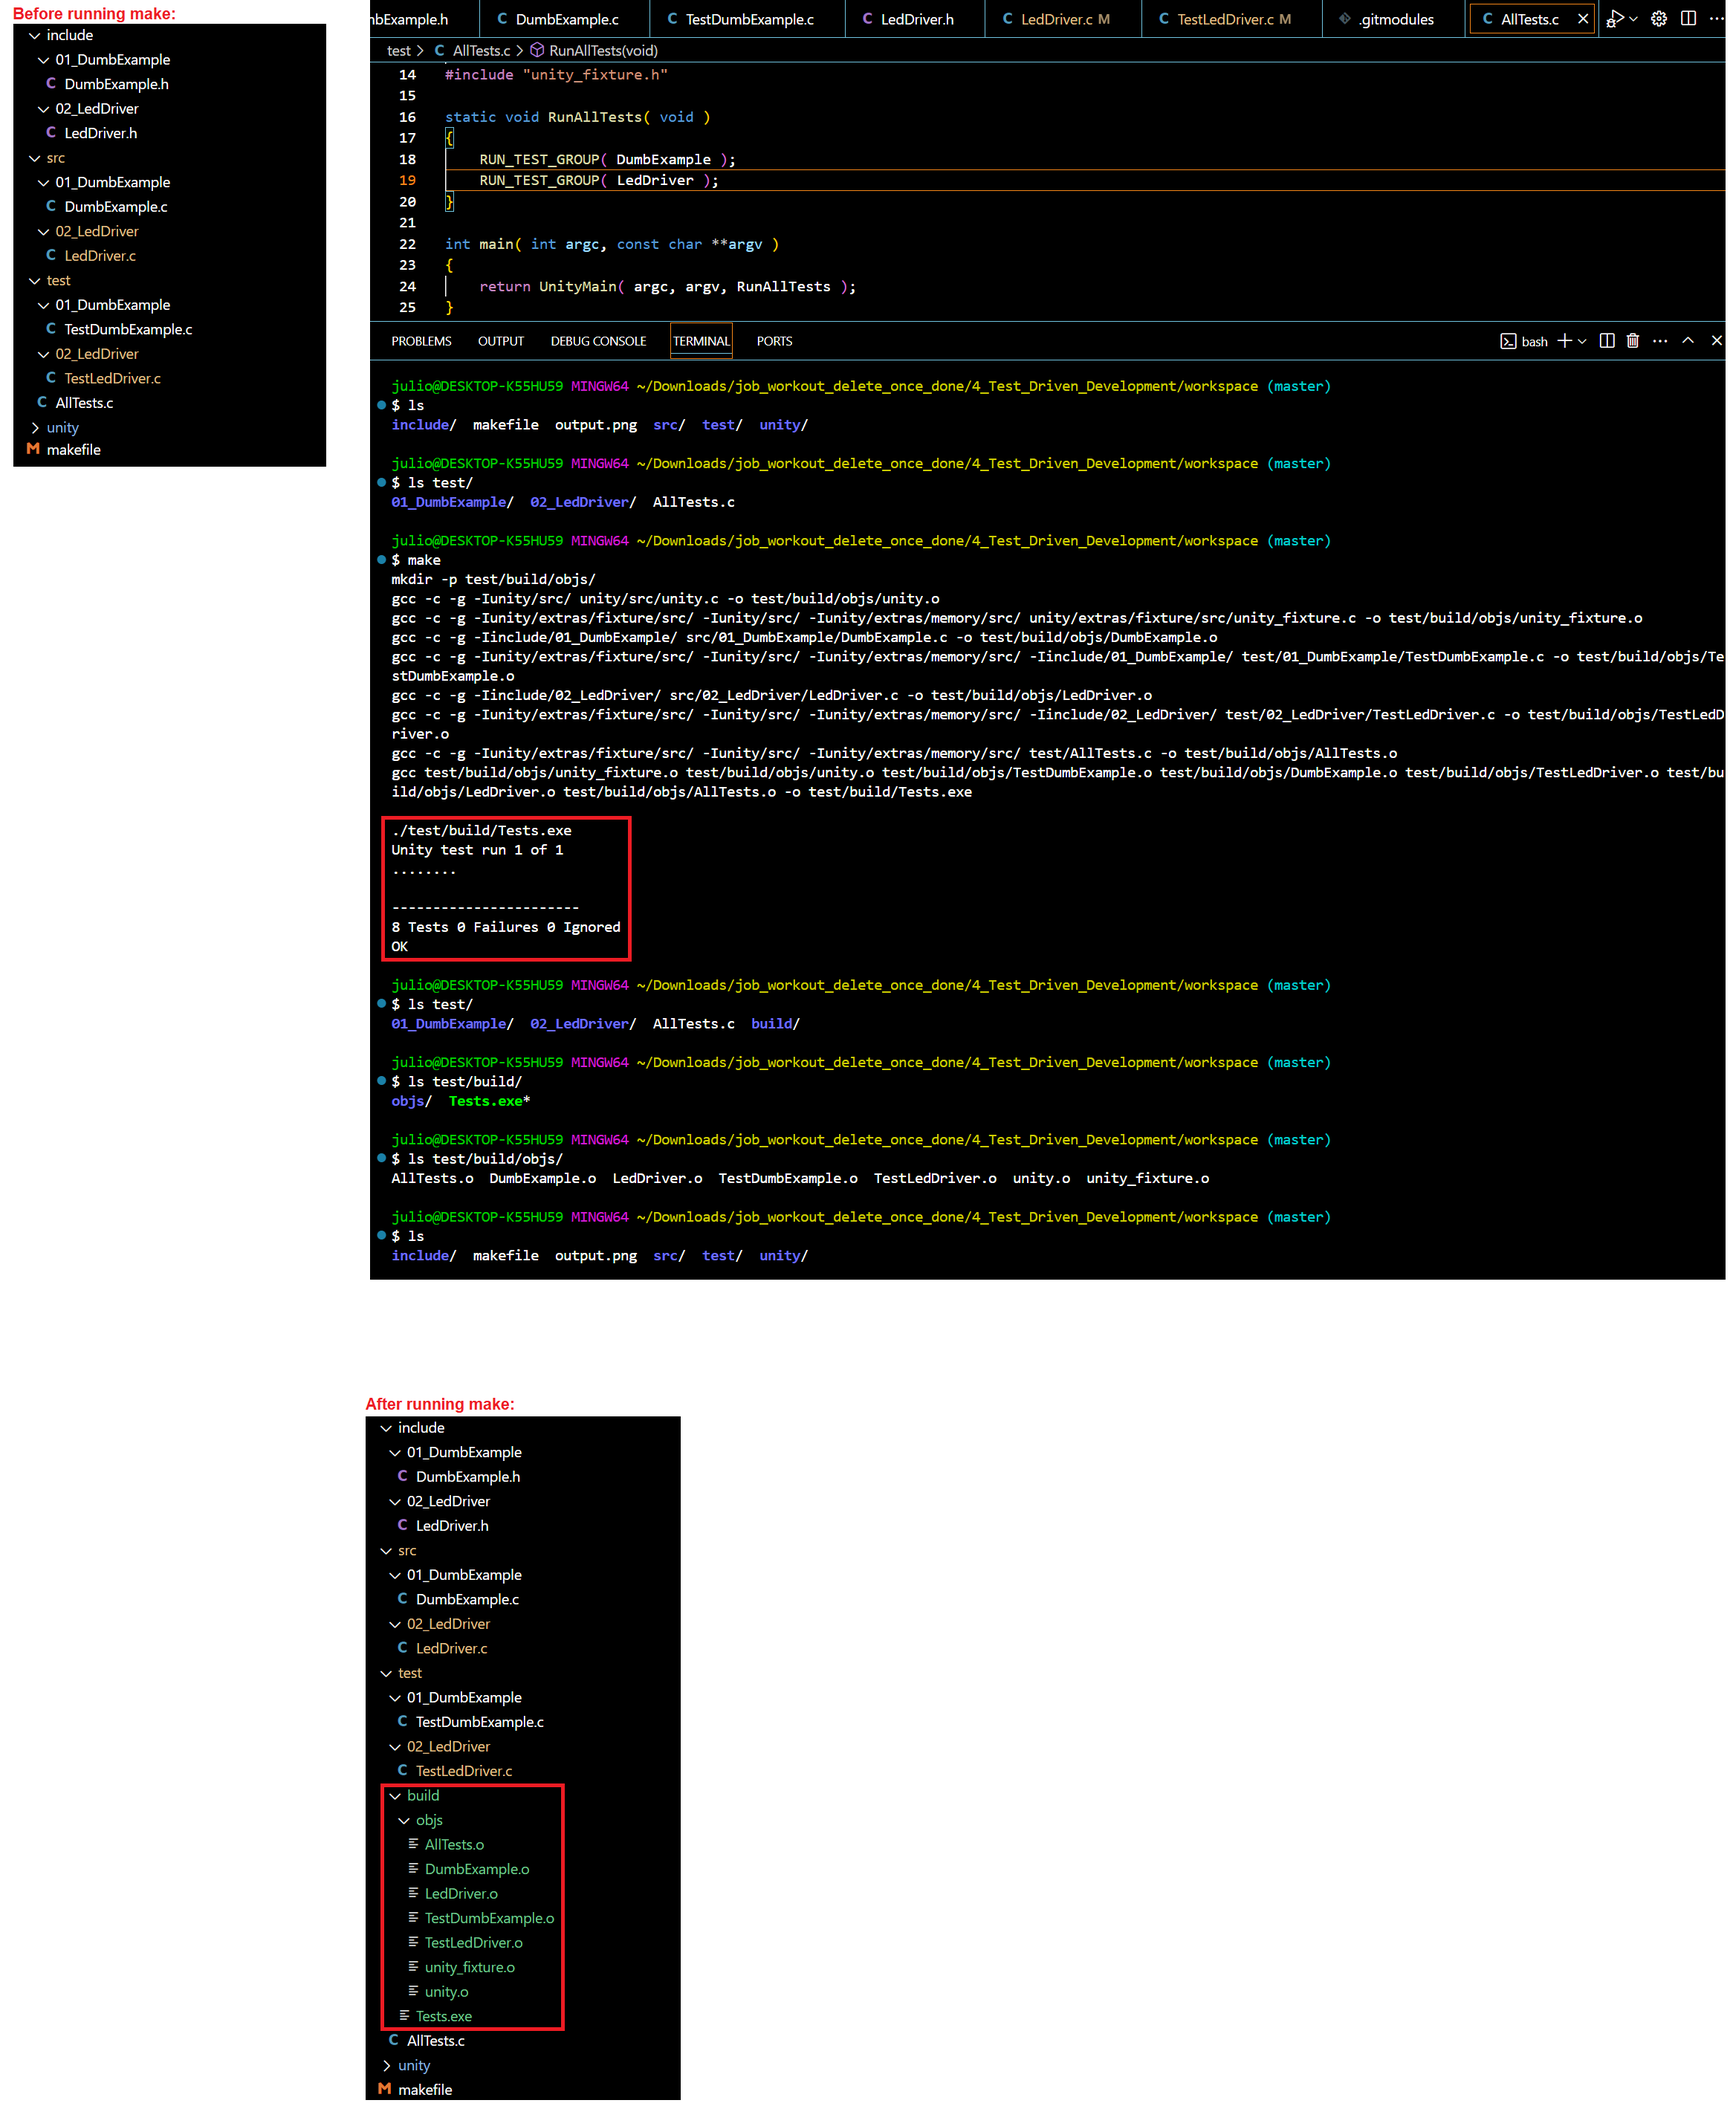
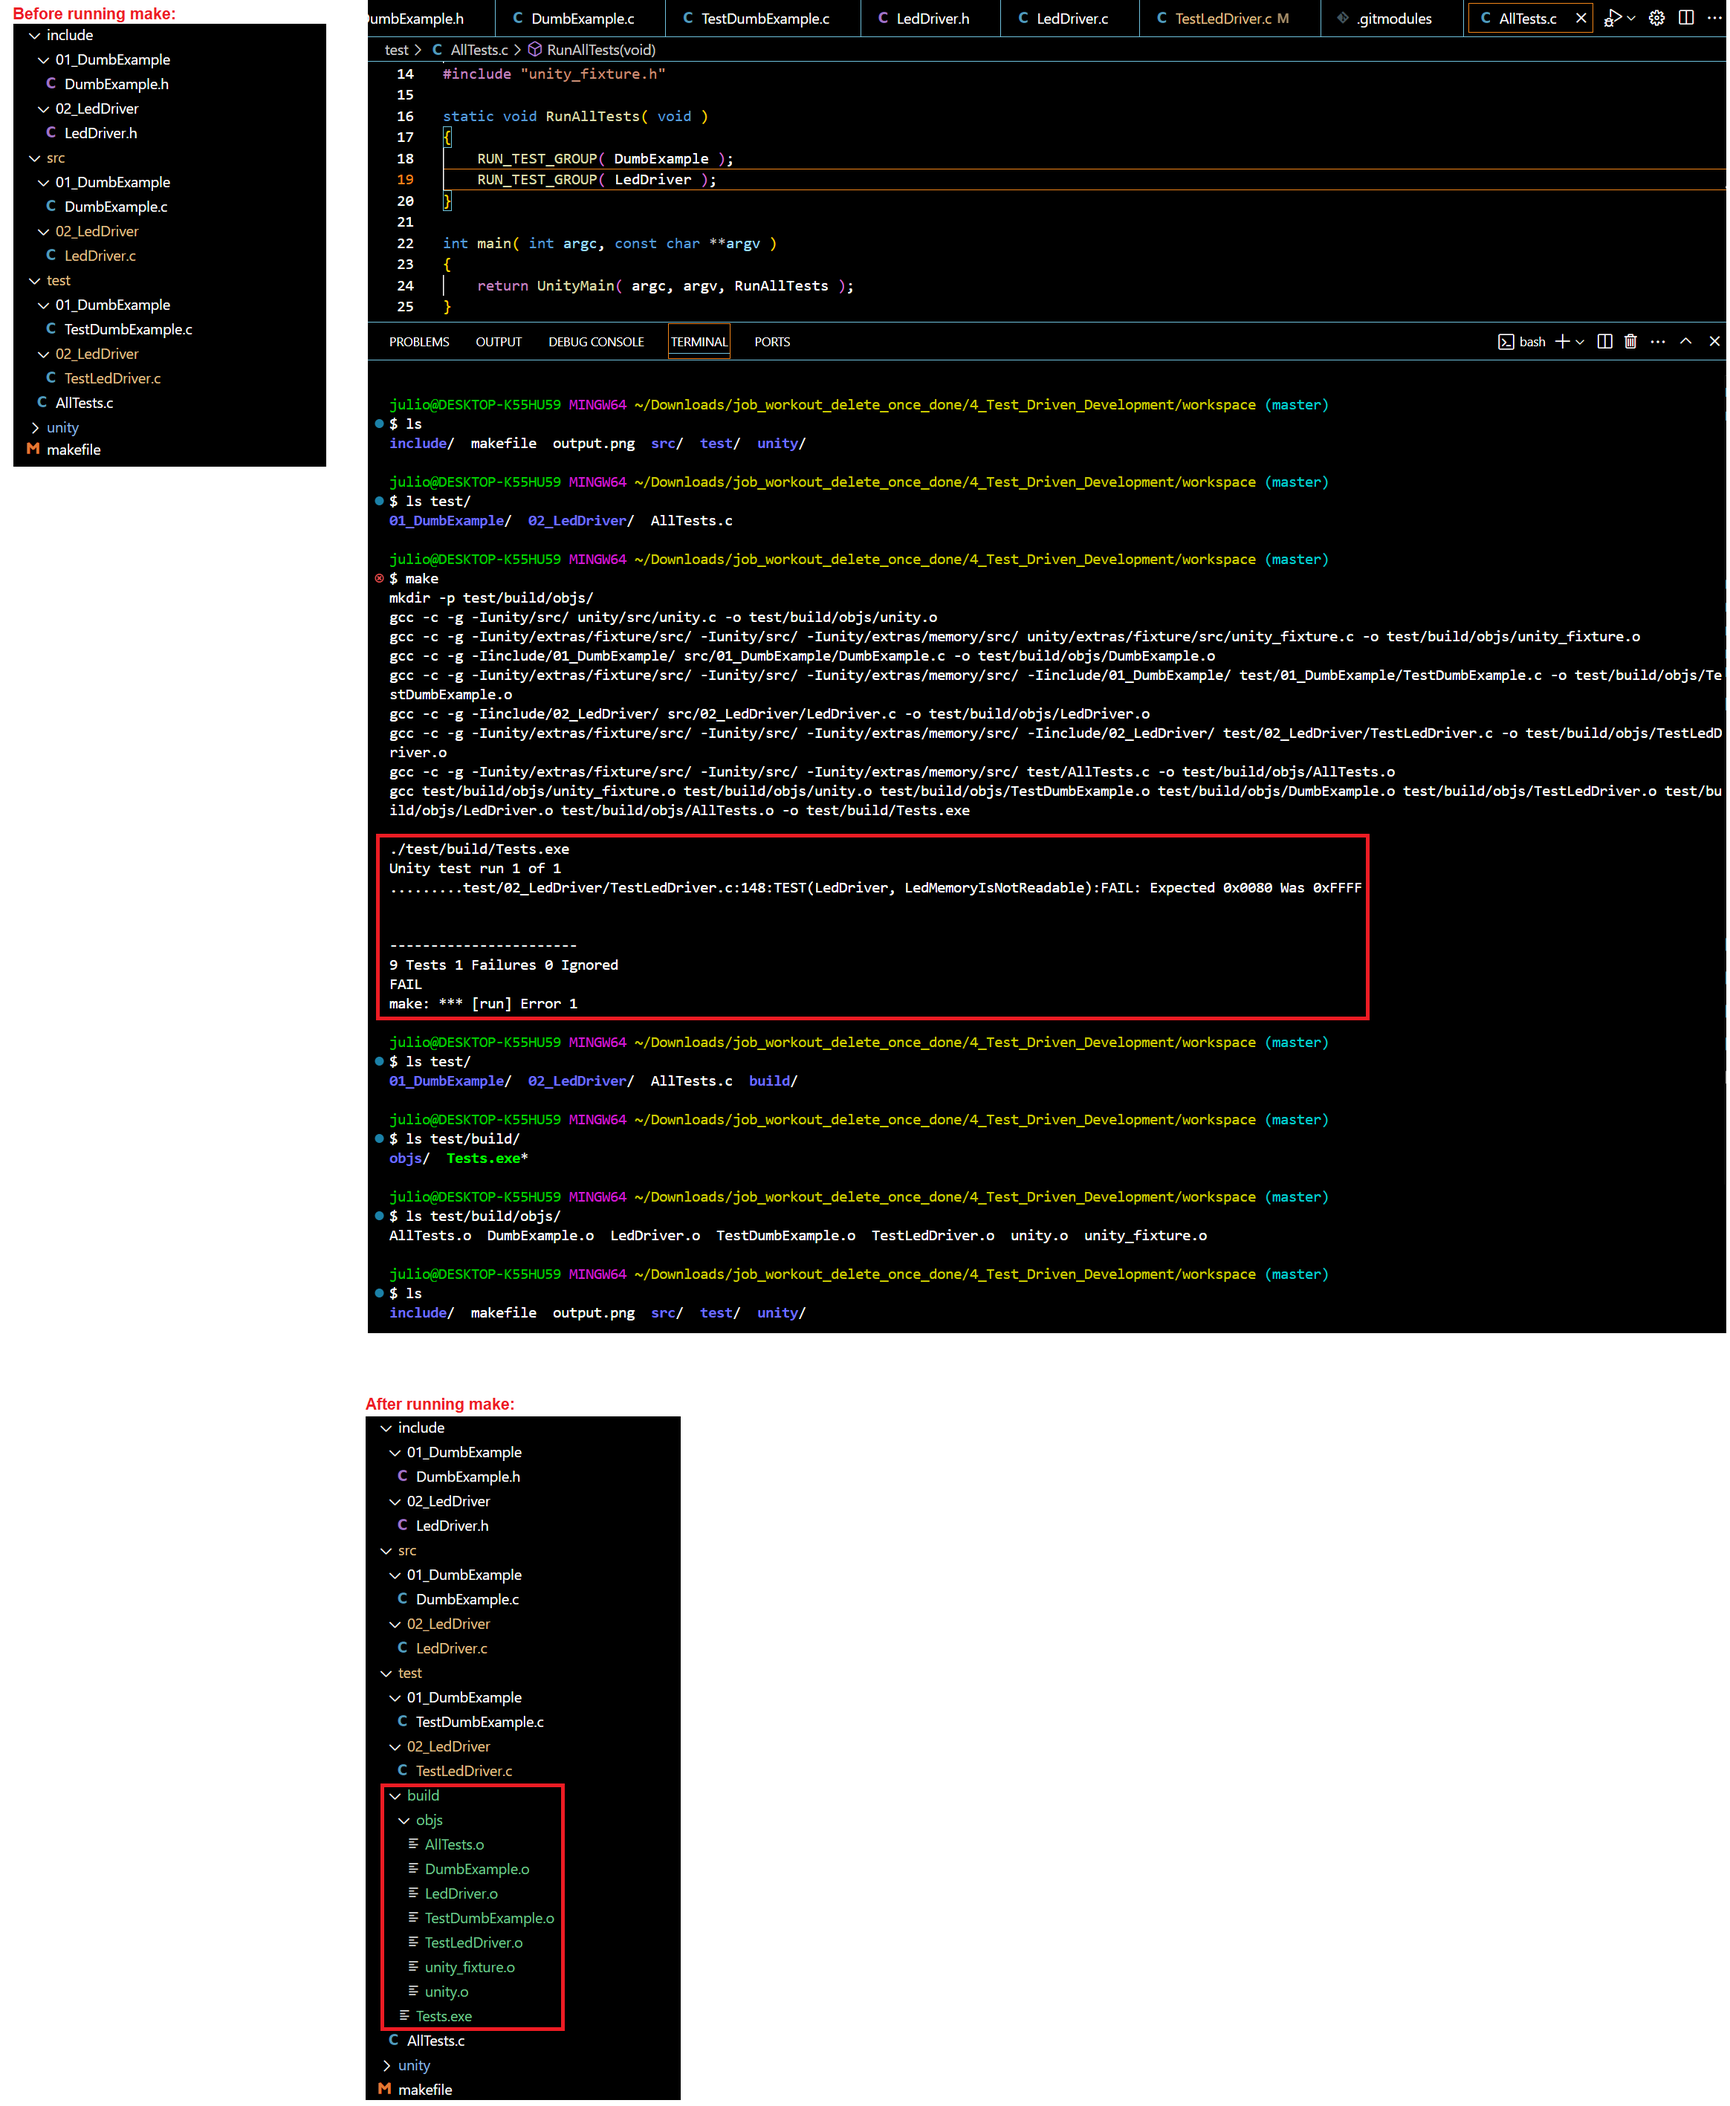
Add LedDriver (failing) LedMemoryIsNotReadable test

diff --git a/test/02_LedDriver/TestLedDriver.c b/test/02_LedDriver/TestLedDriver.c
@@ -127,6 +127,27 @@ TEST( LedDriver, TurnOffAnyLed )
    TEST_ASSERT_EQUAL_HEX16( 0xff7f, virtualLeds );
 }
 
+/* TEST 7 */ 
+TEST( LedDriver, LedMemoryIsNotReadable )
+{
+   /* virtualLeds is first initialized to 0 (all LEDs off) due to
+      the calling to LedDriver_Create() before each test's execution */
+
+   /* overwrite the variable (not hardware) that stores the
+      state of the LEDs */
+   virtualLeds = 0xffff;
+
+   /* turn on LED 8 */
+   LedDriver_TurnOn( 8 );
+
+   /* at this point, if the driver could read the state of the LEDs,
+      then virtualLeds would be 0x80 (7 bit high, which corresponds
+      to the 8 LED just turned on). Since this is not the case, this
+      test fails and it's proved (currently) that the LedDriver can not
+      read from the hardware */
+   TEST_ASSERT_EQUAL_HEX16( 0x80, virtualLeds );
+}
+
 TEST_GROUP_RUNNER( LedDriver )
 {
    /* TEST 1 */
@@ -146,4 +167,7 @@ TEST_GROUP_RUNNER( LedDriver )
 
    /* TEST 6 */
    RUN_TEST_CASE( LedDriver, TurnOffAnyLed );
+
+   /* TEST 7 */
+   RUN_TEST_CASE( LedDriver, LedMemoryIsNotReadable );
 }
